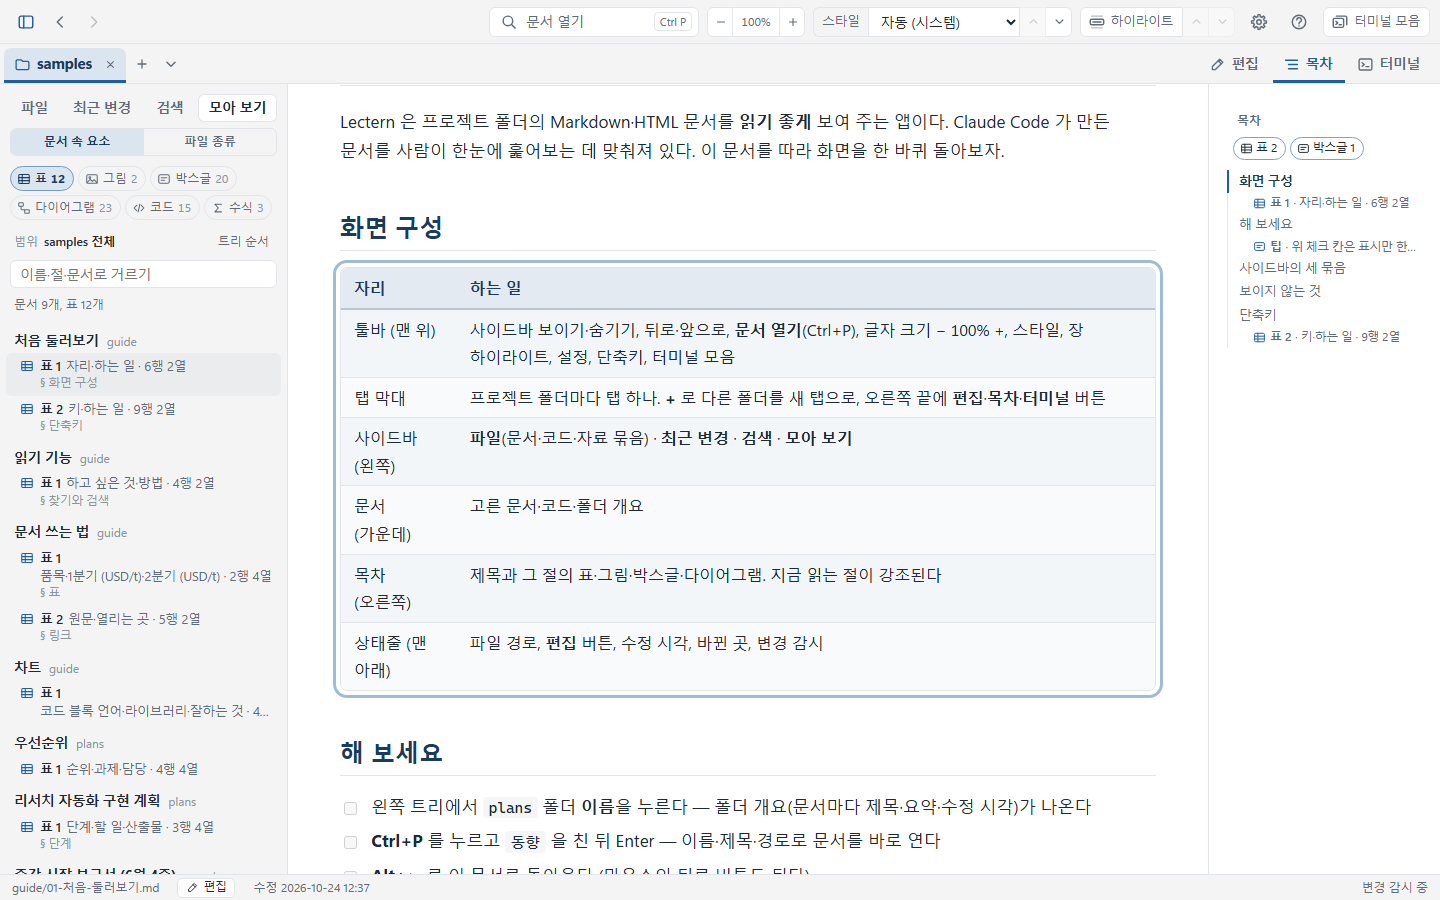
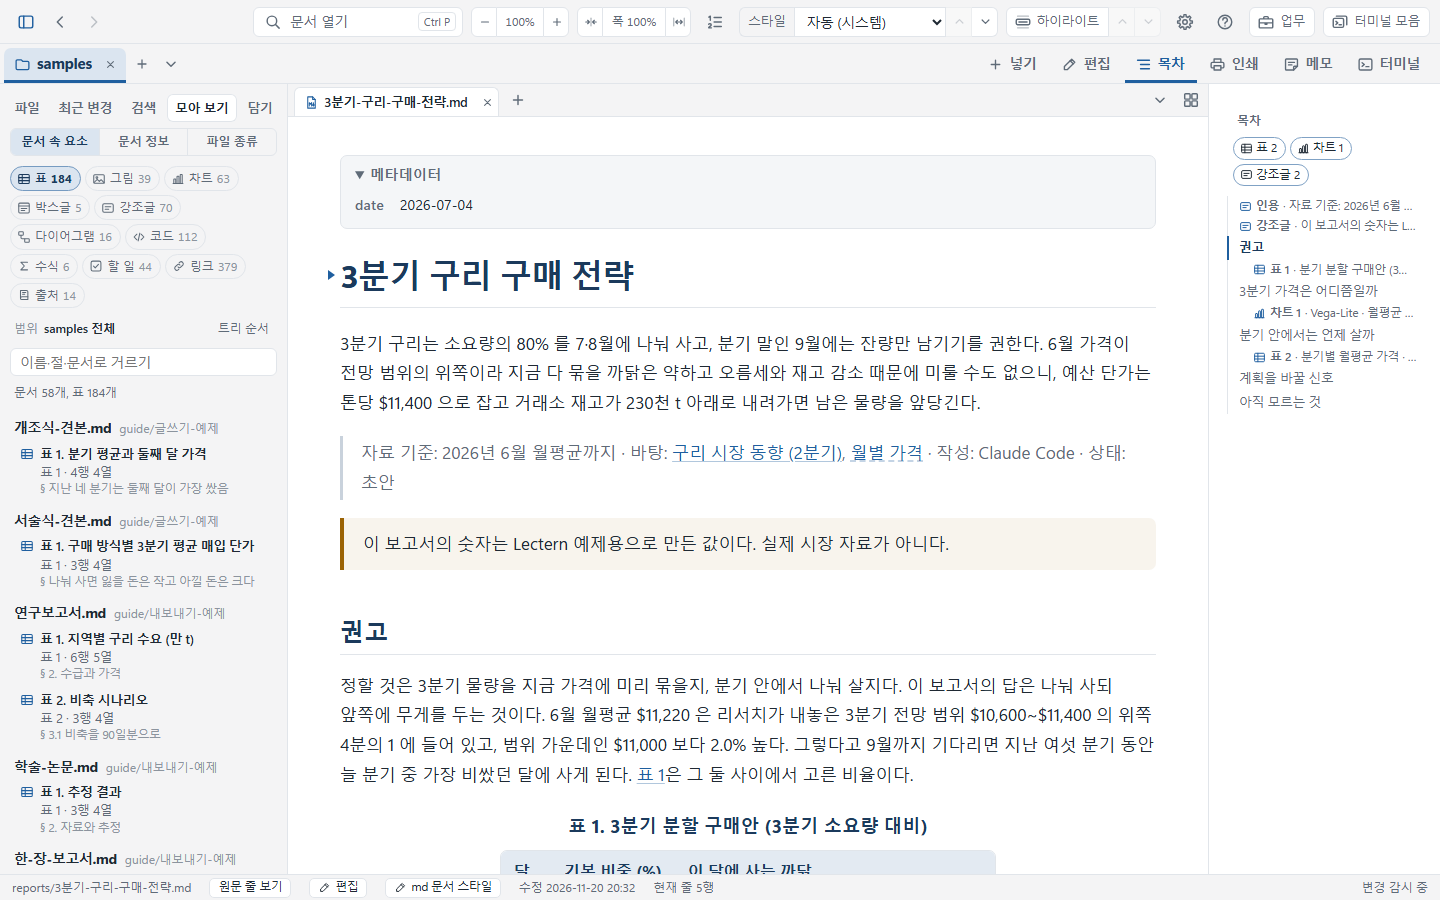
README 화면 그림을 지금 화면으로 — 다시 찍는 tools/readme_shots.py
여섯 장(문서·코드·모아 보기·장 하이라이트·다크·영어)이 10월 24일의 옛 툴바·사이드바였다.
예제 프로젝트를 임시 폴더에 복사해 브라우저로 띄우고 1440×900 으로 찍는다 — 사용자 설정은 건드리지 않는다.

Claude-Session: https://claude.ai/code/session_01V8WaEY5ehfvtrvcKvJs78Z

diff --git a/tools/readme_shots.py b/tools/readme_shots.py
@@ -1,0 +1,104 @@
+"""README 의 화면 그림을 다시 찍는다 — docs/images/*.png (1440×900, 예제 프로젝트 samples).
+
+    python tools/readme_shots.py            여섯 장 모두
+    python tools/readme_shots.py doc dark   고른 것만
+
+화면이 바뀌어 README 그림이 옛 모습이 되면 돌린다. 브라우저로 앱을 띄워(서버만) 찍으므로 창 테두리는 없다.
+설정은 임시 폴더의 새 것 — 사용자의 Lectern 설정을 읽지도 바꾸지도 않는다.
+"""
+from __future__ import annotations
+
+import json
+import shutil
+import sys
+import tempfile
+from pathlib import Path
+
+from playwright.sync_api import sync_playwright
+
+ROOT = Path(__file__).resolve().parents[1]
+sys.path.insert(0, str(ROOT / 'tools' / 'edges'))
+from harness import serve, stop  # noqa: E402
+
+OUT = ROOT / 'docs' / 'images'
+SIZE = {'width': 1440, 'height': 900}
+
+
+def shoot(names: set[str]) -> list[str]:
+    base = Path(tempfile.mkdtemp(prefix='lec-readme-'))
+    proj = base / 'samples'
+    shutil.copytree(ROOT / 'samples', proj, copy_function=shutil.copy)   # 예제를 복사해 연다 — 보기만 하는 탭이 되지 않게. 수정 시각은 오늘로
+    config = base / 'config'
+    config.mkdir()
+    (config / 'config.json').write_text(json.dumps({'language': 'ko', 'work_alerts': False, 'toc_visible': True}), encoding='utf-8')
+    server, url, _ = serve(proj, config)
+    made = []
+    try:
+        with sync_playwright() as p:
+            b = p.chromium.launch()
+            page = b.new_page(viewport=SIZE, device_scale_factor=1)
+
+            def start(lang='ko', theme='auto'):
+                if page.url.startswith('http'):   # 언어·스타일은 앱의 설정 저장으로 바꾸고 다시 불러온다
+                    page.evaluate("(c) => import('/static/js/api.js').then((m) => m.saveConfig(c))", {'language': lang, 'theme': theme})
+                    page.wait_for_timeout(400)
+                    page.reload()
+                else:
+                    page.goto(url)
+                page.wait_for_selector('#lec-tree .row.file', timeout=30000)
+                page.wait_for_timeout(800)
+
+            def open_doc(path, wait='#lec-view h1'):
+                page.evaluate("(p) => import('/static/js/store.js').then((m) => m.emit('open', { type: 'doc', path: p }))", path)
+                page.wait_for_selector(wait, timeout=20000)
+                page.wait_for_function("() => ![...document.querySelectorAll('#lec-view pre.mermaid, #lec-view pre.lec-chart')].some((x) => !x.querySelector('svg, canvas') && !x.classList.contains('diagram-error'))", timeout=20000)
+                page.wait_for_timeout(900)
+
+            def save(name):
+                page.mouse.move(SIZE['width'] - 5, SIZE['height'] - 5)   # 툴팁이 남지 않게
+                page.wait_for_timeout(300)
+                page.screenshot(path=str(OUT / f'{name}.png'))
+                made.append(name)
+
+            if names & {'doc', 'parts', 'spotlight', 'code'}:
+                start()
+                if 'doc' in names:
+                    open_doc('research/구리-시장-동향.md')
+                    save('doc')
+                if 'code' in names:
+                    page.evaluate("() => import('/static/js/store.js').then((m) => m.emit('open', { type: 'code', path: 'src/report.py' }))")
+                    page.wait_for_selector('#lec-view .cv-head, #lec-view table, #lec-view pre', timeout=20000)
+                    page.wait_for_timeout(900)
+                    save('code')
+                if 'parts' in names:
+                    open_doc('reports/3분기-구리-구매-전략.md')
+                    page.click('.side-tabs button[data-tab="parts"]')
+                    page.wait_for_timeout(1500)
+                    save('parts')
+                if 'spotlight' in names:
+                    page.click('.side-tabs button[data-tab="files"]')
+                    open_doc('reports/3분기-구리-구매-전략.md')
+                    page.click('#lec-btn-spot')
+                    page.wait_for_timeout(400)
+                    page.keyboard.press('ArrowDown')
+                    page.wait_for_timeout(700)
+                    save('spotlight')
+            if 'dark' in names:
+                start(theme='dark')
+                open_doc('reports/3분기-구리-구매-전략.md')   # 표의 캡션·자료 줄이 보이는 곳 (D184)
+                page.evaluate("() => { const c = document.querySelector('#lec-content'); const t = [...document.querySelectorAll('#lec-view h2')][0]; if (t) c.scrollTop = t.offsetTop - 20; }")
+                page.wait_for_timeout(600)
+                save('dark')
+            if 'en' in names:
+                start(lang='en')
+                open_doc('research/구리-시장-동향.md')
+                save('en')
+            b.close()
+    finally:
+        stop(server, base)
+    return made
+
+
+if __name__ == '__main__':
+    want = set(sys.argv[1:]) or {'doc', 'code', 'parts', 'spotlight', 'dark', 'en'}
+    print('찍은 것:', shoot(want))
